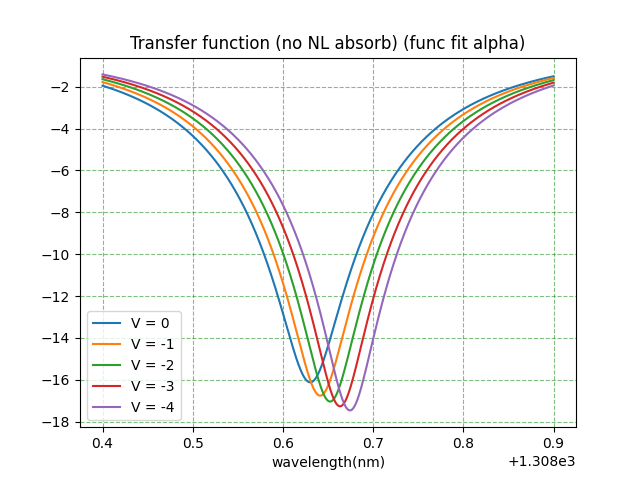
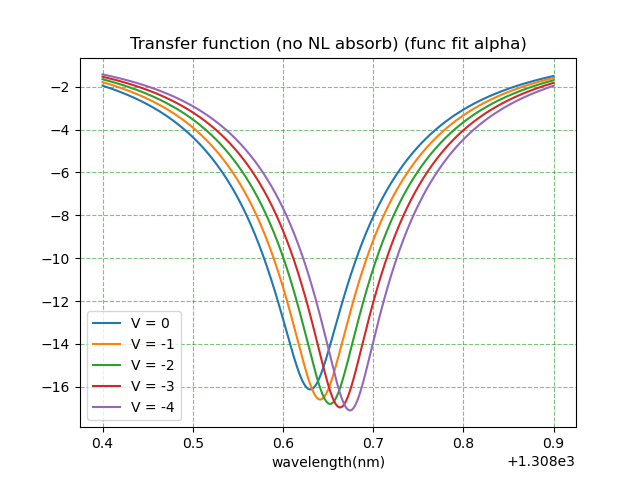
20250701 morning

diff --git a/eye_test_v2.py b/eye_test_v2.py
@@ -73,7 +73,7 @@ def func(V,alpha0,b,c):
     return b*V/(abs(V)+c)**0.5+alpha0
 V = np.array([0,-0.5,-1,-1.5,-2])
 # alpha_energy_data = func(V,alpha_energy0,9.1,5.5)
-alpha_energy_data = func(V,alpha_energy0,2,2e-06)
+alpha_energy_data = func(V,alpha_energy0,1.5,2e-06)
 if segment==1:
     if SB=="LSB":
         Amp_RoundTripLoss_data = np.exp(-0.5*( (alpha_energy_data- alpha_energy_data[0])*La_LSB_ratio + alpha_energy_data[0])* 2*np.pi*radius*1e-4)
@@ -198,7 +198,8 @@ v = driver(f_drive=f_drive,
            Cp=Cpad,
            segment=segment)
 V = np.linspace(-5,0,1000)
-ploting(V,dB(np.exp(-ring_mod.alpha(V)))-dB(np.exp(-ring_mod.alpha(0))),x_label="voltage (V)",title="Energy absorption coefficient (1/cm)",filename="alpha_V")
+ploting(V,-dB(np.exp(-ring_mod.alpha(V)))+dB(np.exp(-ring_mod.alpha(0))),x_label="voltage (V)",title="Energy absorption coefficient (dB/cm)",filename="alpha_V")
+ploting(V,ring_mod.alpha(V),x_label="voltage (V)",title="Energy absorption coefficient (1/cm)",filename="alpha_V")
     
 V = np.linspace(-5,0,1000)
 if segment==2:
